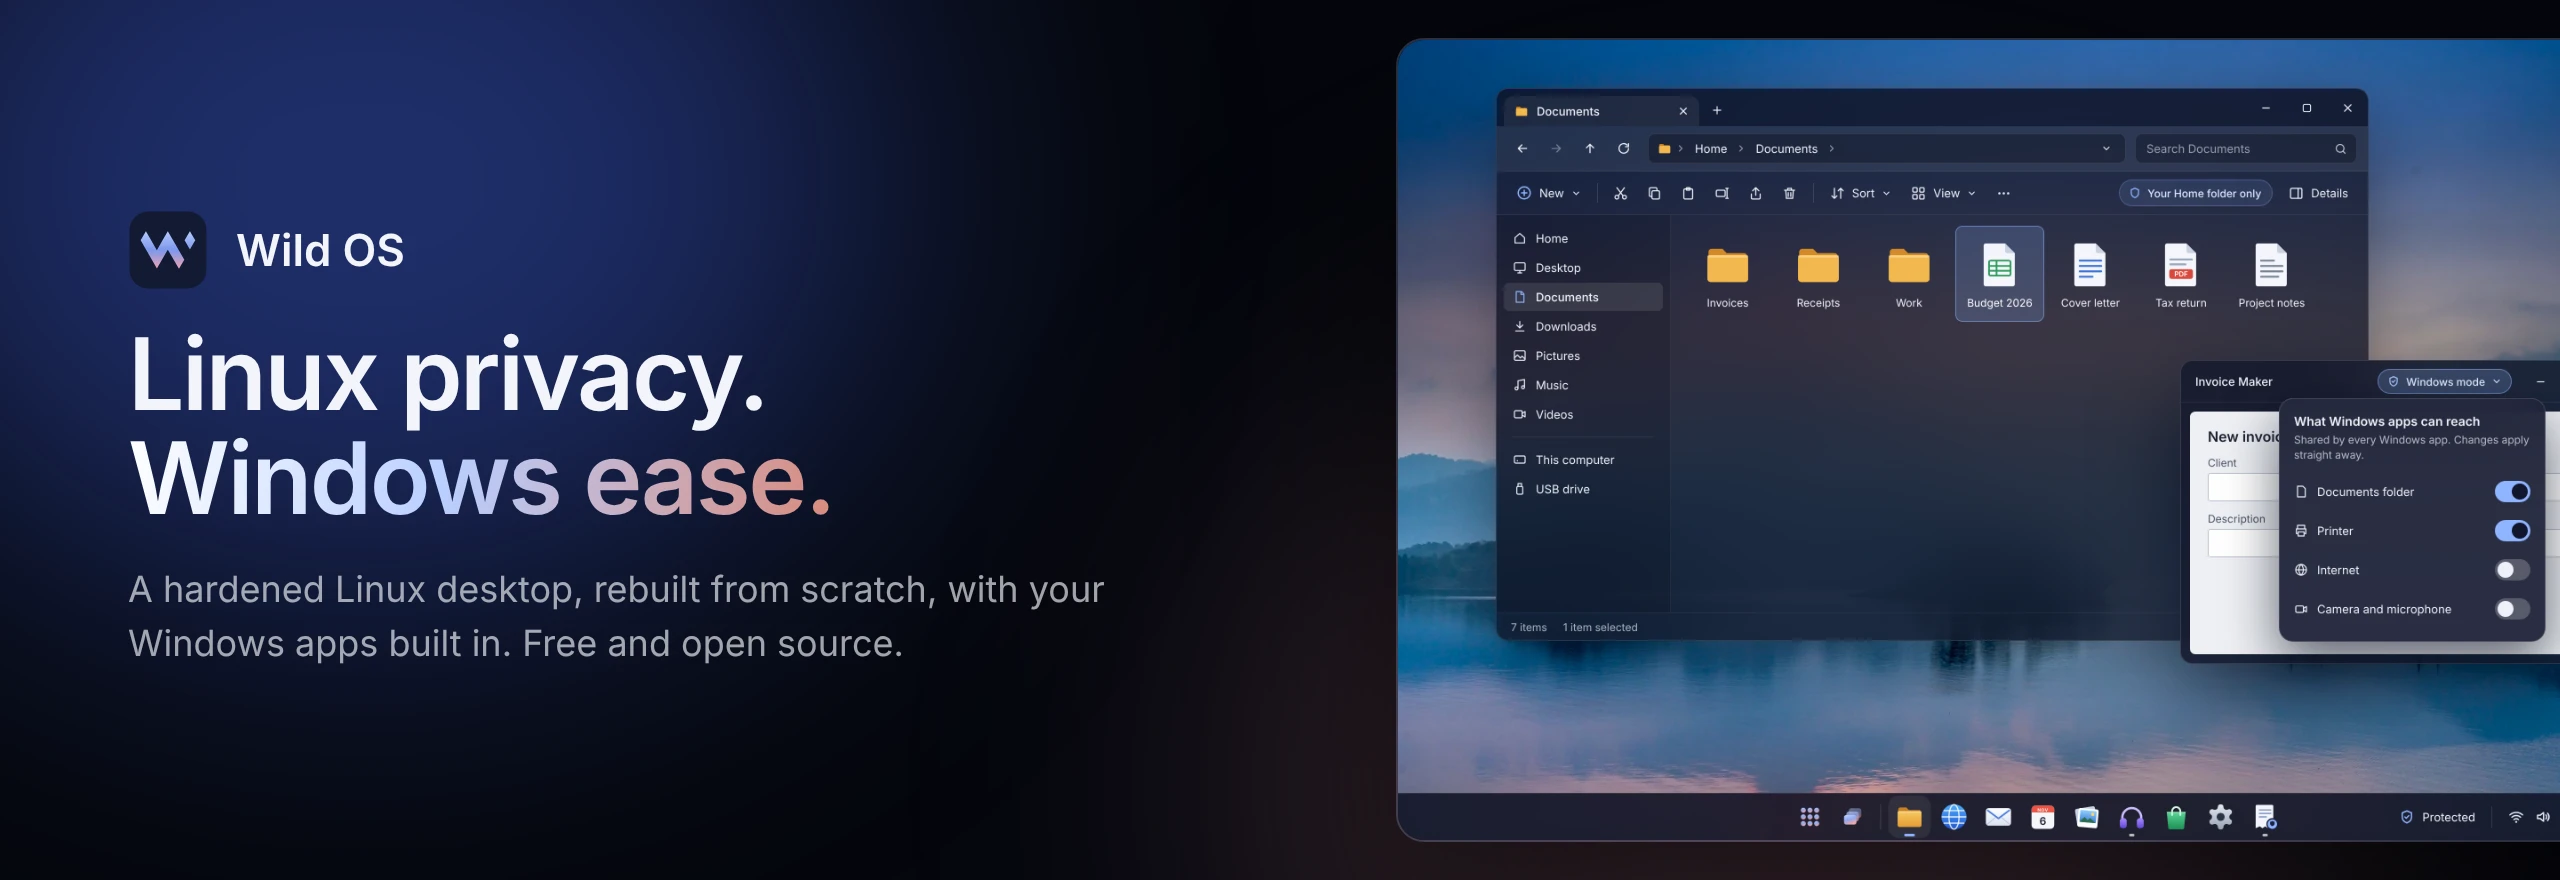
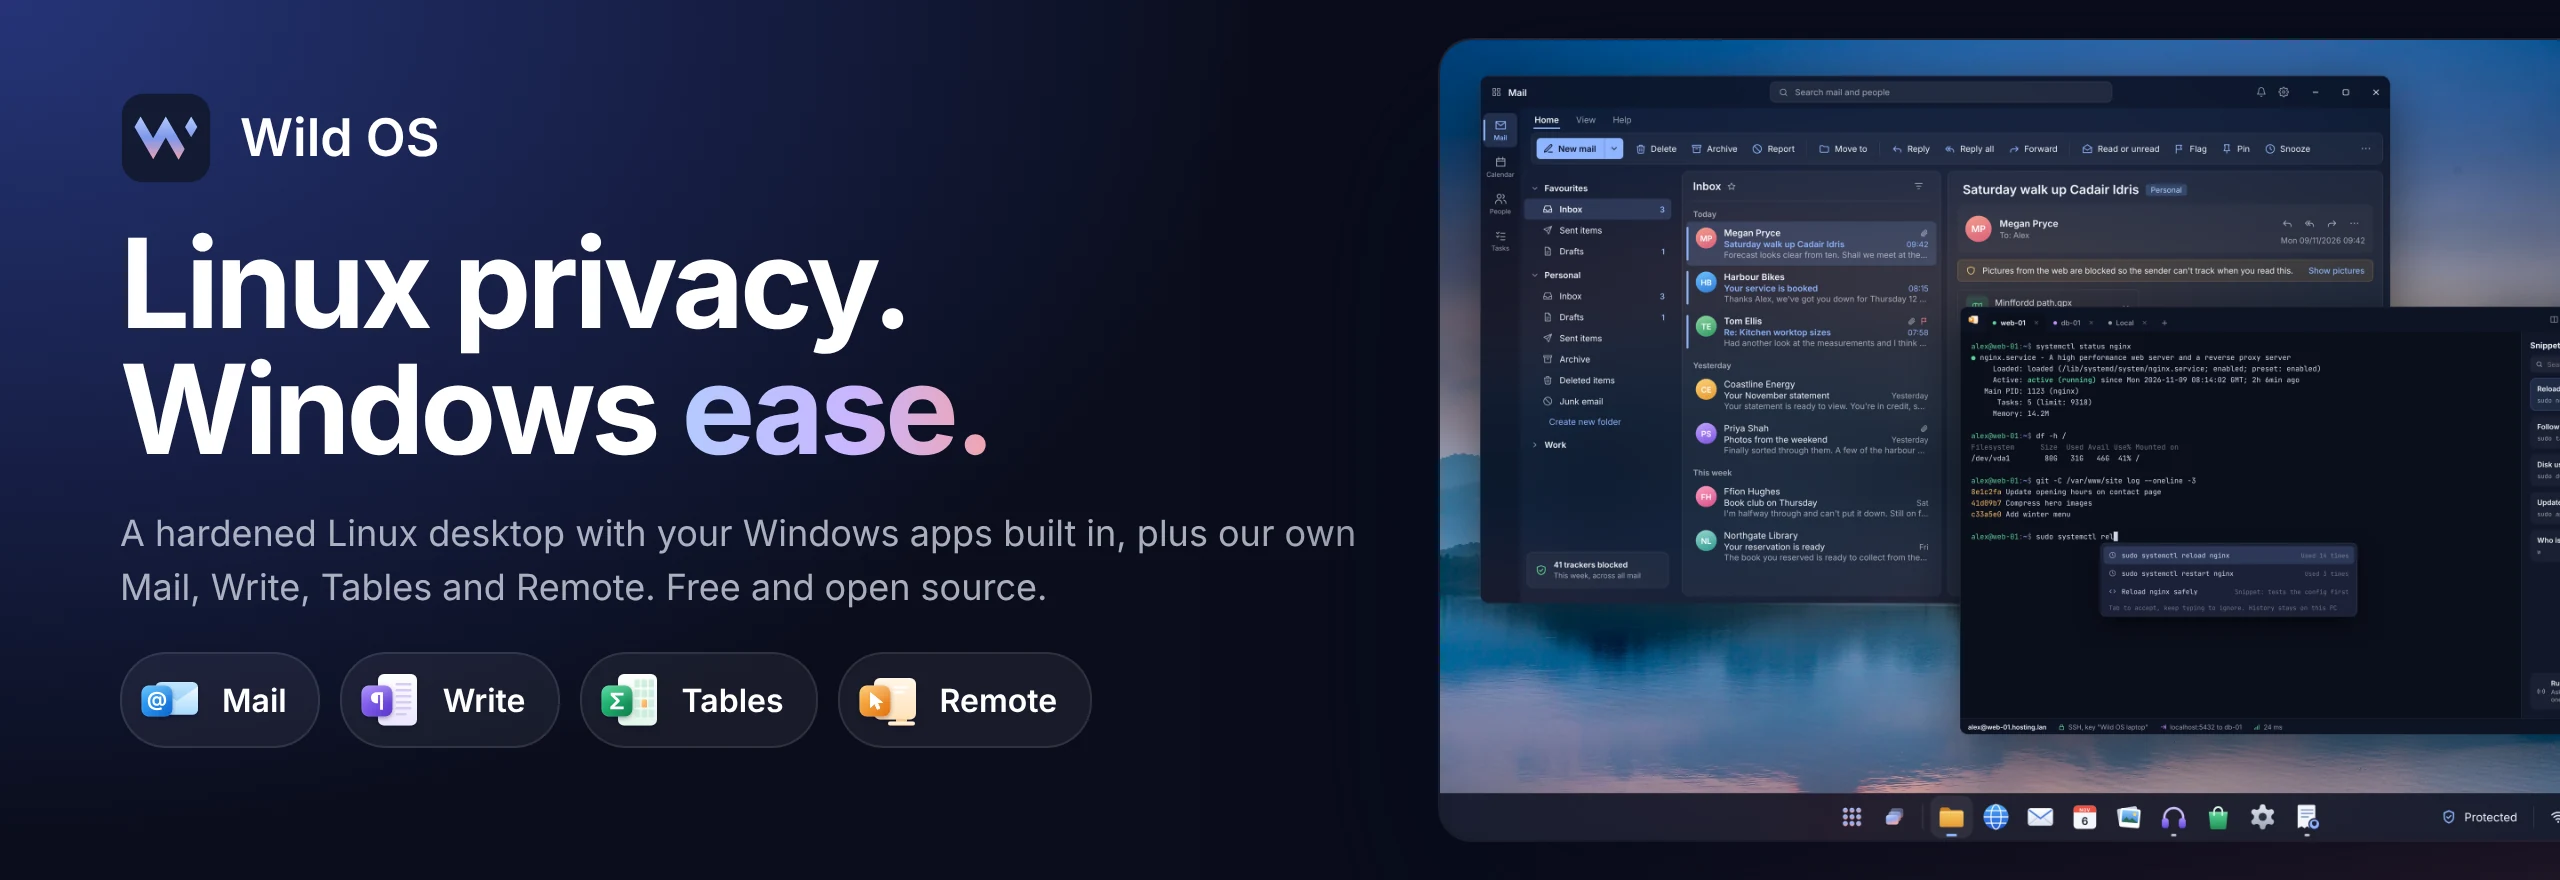
Refresh README: feature cards, our own apps, new screenshots

Changed region(s): [[0.0312, 0.0307, 1.0, 0.9511], [0.0, 0.0, 0.1875, 0.2148], [0.9375, 0.9205, 1.0, 1.0]]

diff --git a/README.md b/README.md
@@ -8,7 +8,7 @@
   </picture>
 </a>
 
-### A hardened Linux desktop, rebuilt from scratch, with your Windows apps built in.
+### A hardened Linux desktop with your Windows apps built in, plus our own Mail, Write, Tables and Remote.
 
 **[Website](https://wildos.io)** · **[Take the tour](https://wildos.io/tour/)** · **[How it works](https://wildos.io/how-it-works/)** · **[FAQ](https://wildos.io/faq/)** · **[Download](https://wildos.io/faq/)**
 
@@ -20,13 +20,34 @@
 </div>
 
 > [!IMPORTANT]
-> Wild OS is in early alpha. Alpha 1 is out now: [download it](https://wildos.io/faq/), and back up anything that matters before you install.
+> Wild OS is young and moving fast. [Download the latest release](https://wildos.io/faq/), and back up anything that matters before you install.
 
-## What is Wild OS?
+## Why Wild OS
 
-Wild OS is a free, open source operating system for people who want the privacy of Linux without giving up the programs and habits they already have.
+<img src="docs/assets/features/windows-apps.webp" alt="Your Windows programs, in normal windows" width="100%">
 
-It is built in three layers, and each one has a single job.
+<img src="docs/assets/features/our-apps.webp" alt="Mail, Write, Tables and Remote, built in" width="100%">
+
+<table>
+  <tr>
+    <td width="50%"><img src="docs/assets/features/free.webp" alt="Over £170 a year of apps, for nothing" width="100%"></td>
+    <td width="50%"><img src="docs/assets/features/privacy.webp" alt="Private by default: no account, no telemetry, no adverts" width="100%"></td>
+  </tr>
+  <tr>
+    <td><img src="docs/assets/features/security.webp" alt="Hardened from the ground up: signed updates, sandboxed apps, encrypted disk, hardened Debian" width="100%"></td>
+    <td><img src="docs/assets/features/light.webp" alt="Windows only runs when you need it: running, paused, saved to disk" width="100%"></td>
+  </tr>
+  <tr>
+    <td><img src="docs/assets/features/desktop.webp" alt="A desktop you already know: Start, taskbar, snap, Alt+Tab" width="100%"></td>
+    <td><img src="docs/assets/features/remote.webp" alt="Every server and PC in one app" width="100%"></td>
+  </tr>
+</table>
+
+<img src="docs/assets/features/themes.webp" alt="Six one-click themes with RGB lighting" width="100%">
+
+## How it's built
+
+Wild OS is a free, open source operating system in three layers, and each one has a single job.
 
 | Layer | What it does |
 | --- | --- |
@@ -34,20 +55,24 @@ It is built in three layers, and each one has a single job.
 | **The Wild desktop** | KDE's proven engine underneath, with every screen you touch redesigned: Start, the taskbar, Settings, Files, the Store, the installer, first start and the system dialogs. Not a theme, a rebuilt interface. |
 | **Windows mode** | A genuine copy of Windows 11 Pro running out of sight. Each Windows program opens as its own normal window on your desktop. |
 
-There's no account, no telemetry and no adverts. The full story is at **[wildos.io](https://wildos.io)**.
+On top sit our own apps: Mail and Calendar, Write, Tables and Remote. The full story is at **[wildos.io](https://wildos.io)**.
 
-## Screens
+## See it
 
-These are the Wild OS designs every screen is built to.
+Real screens from the Wild OS designs every screen is built to.
 
 <table>
   <tr>
     <td width="50%"><img src="docs/assets/screens/main.webp" alt="The Wild OS desktop with Files open and a Windows app alongside"><br><sub><b>The desktop.</b> A Windows app running next to Files.</sub></td>
-    <td width="50%"><img src="docs/assets/screens/start.webp" alt="The Start menu with pinned apps and recent files"><br><sub><b>Start.</b> Pinned apps, recent files and search.</sub></td>
+    <td width="50%"><img src="docs/assets/screens/mail.webp" alt="Mail with favourites, the inbox and an email open"><br><sub><b>Mail.</b> Every account in one inbox, trackers blocked.</sub></td>
   </tr>
   <tr>
-    <td><img src="docs/assets/screens/winapp.webp" alt="Installing a Windows program in Windows mode"><br><sub><b>Windows apps.</b> Double-click an installer and it just installs.</sub></td>
-    <td><img src="docs/assets/screens/installerencryption.webp" alt="The installer's encryption step, on by default with a recovery key"><br><sub><b>Installer.</b> Encryption on by default, explained in one sentence.</sub></td>
+    <td><img src="docs/assets/screens/write.webp" alt="Write editing a report"><br><sub><b>Write.</b> Opens and saves Word files.</sub></td>
+    <td><img src="docs/assets/screens/tables.webp" alt="Tables editing a budget"><br><sub><b>Tables.</b> Opens and saves Excel files.</sub></td>
+  </tr>
+  <tr>
+    <td><img src="docs/assets/screens/remote-terminal.webp" alt="Remote with server tabs, suggestions and snippets"><br><sub><b>Remote.</b> Tabs, suggestions from your history and saved snippets.</sub></td>
+    <td><img src="docs/assets/screens/start.webp" alt="The Start menu"><br><sub><b>Start.</b> Pinned apps, recent files and search.</sub></td>
   </tr>
 </table>
 
@@ -57,17 +82,36 @@ These are the Wild OS designs every screen is built to.
 
 | | |
 | --- | --- |
-| ![Light mode desktop](docs/assets/screens/mainlight.webp) | ![Setting up Windows mode](docs/assets/screens/winmodesetup.webp) |
-| ![Snap layouts](docs/assets/screens/snap.webp) | ![Settings](docs/assets/screens/settings.webp) |
-| ![Shutting down with unsaved work](docs/assets/screens/winmodeshutdown.webp) | ![A permission prompt](docs/assets/screens/dialogpermission.webp) |
-| ![First start welcome](docs/assets/screens/welcome.webp) | ![Task Manager](docs/assets/screens/taskmanagerperf.webp) |
-| ![The Store](docs/assets/screens/store.webp) | ![Alt+Tab](docs/assets/screens/alttab.webp) |
-| ![The lock screen](docs/assets/screens/lock.webp) | ![The installer](docs/assets/screens/installer.webp) |
-| ![Windows programs found at first start](docs/assets/screens/firstwinapps.webp) | ![Camera and microphone for Windows apps](docs/assets/screens/winmodecalls.webp) |
+| ![Remote's host list](docs/assets/screens/remote-hosts.webp) | ![Remote copying files to a server](docs/assets/screens/remote-files.webp) |
+| ![Remote's full-screen remote desktop](docs/assets/screens/remote-session.webp) | ![Remote's keychain](docs/assets/screens/remote-keychain.webp) |
+| ![Calendar week view](docs/assets/screens/calendar.webp) | ![The Store](docs/assets/screens/store.webp) |
+| ![Themes](docs/assets/screens/themes.webp) | ![The Overclock theme with RGB lighting](docs/assets/screens/overclock.webp) |
+| ![Installing a Windows program](docs/assets/screens/winapp.webp) | ![Windows mode status and controls](docs/assets/screens/winmodepanel.webp) |
+| ![Light mode desktop](docs/assets/screens/mainlight.webp) | ![Settings](docs/assets/screens/settings.webp) |
+| ![Snap layouts](docs/assets/screens/snap.webp) | ![Alt+Tab](docs/assets/screens/alttab.webp) |
+| ![The installer's encryption step](docs/assets/screens/installerencryption.webp) | ![A permission prompt](docs/assets/screens/dialogpermission.webp) |
+| ![Shutting down with unsaved work](docs/assets/screens/winmodeshutdown.webp) | ![Task Manager](docs/assets/screens/taskmanagerperf.webp) |
+| ![First start welcome](docs/assets/screens/welcome.webp) | ![The lock screen](docs/assets/screens/lock.webp) |
+| ![Loading screens for the four apps](docs/assets/screens/splashes.webp) | ![Windows programs found at first start](docs/assets/screens/firstwinapps.webp) |
 
 Or click through every screen yourself in the **[interactive tour](https://wildos.io/tour/)**.
 
 </details>
+
+## The little things
+
+The details you'd miss if they weren't there, borrowed from the best of Windows and macOS.
+
+- **Taskbar previews.** Hover a taskbar app to see its windows, and hover a preview to peek at it.
+- **Snap assist.** Snap one window and Wild OS offers the rest to fill the other side.
+- **Quick Look.** Press Space on a file in Files to preview it without opening anything.
+- **End task from the taskbar.** Right-click a frozen app to close it for good, no Task Manager needed.
+- **Switch between windows of one app** with Super and the key above Tab.
+- **Title bar double-click** does what you choose: maximise, shade or nothing.
+- **A clock your way.** Seconds, the long date and battery percentage, each one switch away.
+- **Keep awake.** One tile in Quick settings stops the PC sleeping during a download or a talk.
+- **Lid and power button** do what you set, on battery and plugged in.
+- **Do not disturb on a schedule**, so evenings and weekends stay quiet.
 
 ## Windows mode
 
@@ -80,6 +124,7 @@ Windows mode doesn't imitate Windows. It runs a real, licensed copy of Windows 1
 </picture>
 
 - **Light when you're not using it.** A minute after you close your last Windows app it pauses, using no processor time. On battery or short of memory it saves itself to disk instead.
+- **In your control.** Click the Windows mode status in the taskbar to pause, save to disk, restart or shut it down. The same controls are in Settings.
 - **Never lose work.** Shut down with an unsaved document and Windows is kept exactly as it was, then reopened next time.
 - **Your files stay yours.** Windows only sees the folders you share. Saving in Word puts the file straight into your Documents folder.
 - **Sealed off.** Its own private network, no view of your home network, and snapshots so a bad Windows update can be rolled back.
@@ -152,7 +197,7 @@ The ISO is written to `out/`. The first build downloads about 3 GB of packages; 
 | Path | What's in it |
 | --- | --- |
 | `build/` | Image build: builder container, package list, chroot hooks, boot menu, patches to upstream packages |
-| `packages/` | Wild OS's own Debian packages: base system, desktop and shell, Settings, Files, Store, Terminal, Task Manager, welcome, installer and Windows mode (`wildos-winmode`) |
+| `packages/` | Wild OS's own Debian packages: base system, desktop and shell, Settings, Files, Store, Mail and Calendar (`wildos-mail`), Remote (`wildos-remote`), Terminal, Task Manager, lighting, welcome, installer and Windows mode (`wildos-winmode`) |
 | `branding/` | Logo, glyphs and wallpaper |
 | `docs/assets/` | The images on this page |
 
@@ -161,8 +206,12 @@ The ISO is written to `out/`. The first build downloads about 3 GB of packages; 
 - [x] Bootable live ISO and installer, with Secure Boot and encryption by default
 - [x] The Wild desktop: Start, taskbar, Settings, Files, Store, welcome, light and dark
 - [x] Signed update channel with stable and beta
-- [x] Windows mode, first alpha, for PCs with Windows 11 Pro
-- [ ] **Now:** Alpha testing and fixes on real hardware
+- [x] Windows mode for PCs with Windows 11 Pro, with pause, save to disk, restart and shut down
+- [x] Our own apps: Mail and Calendar, Write, Tables and Remote
+- [x] Themes and RGB lighting
+- [x] Taskbar previews, snap assist, Quick Look and the rest of the little things
+- [ ] **Now:** Testing and fixes on real hardware
+- [ ] **Next:** Windows programs that open instantly
 - [ ] **Later:** Windows 11 Home support, device passthrough, Strict and Maximum protection levels
 
 ## Contributing
@@ -175,7 +224,7 @@ Wild OS is built in the open and help is welcome, from code to testing Windows a
 
 ## Credits
 
-Wild OS stands on the work of [Kicksecure](https://www.kicksecure.com) and the [Whonix](https://www.whonix.org) project, whose security packages it installs unmodified from their repository. Wild OS is an independent project and is not affiliated with or endorsed by them; Kicksecure is a trademark of its owners. It is built on [Debian](https://www.debian.org), [KDE](https://kde.org), [Calamares](https://calamares.io), [QEMU and KVM](https://www.qemu.org), [libvirt](https://libvirt.org) and [FreeRDP](https://www.freerdp.com). Thank you.
+Wild OS stands on the work of [Kicksecure](https://www.kicksecure.com) and the [Whonix](https://www.whonix.org) project, whose security packages it installs unmodified from their repository. Wild OS is an independent project and is not affiliated with or endorsed by them; Kicksecure is a trademark of its owners. It is built on [Debian](https://www.debian.org), [KDE](https://kde.org), [Calamares](https://calamares.io), [LibreOffice](https://www.libreoffice.org), [QEMU and KVM](https://www.qemu.org), [libvirt](https://libvirt.org) and [FreeRDP](https://www.freerdp.com). Thank you.
 
 The default wallpaper is a photograph by Quang Nguyen Vinh. Artwork credits and licences are in [branding/CREDITS.md](branding/CREDITS.md).
 
